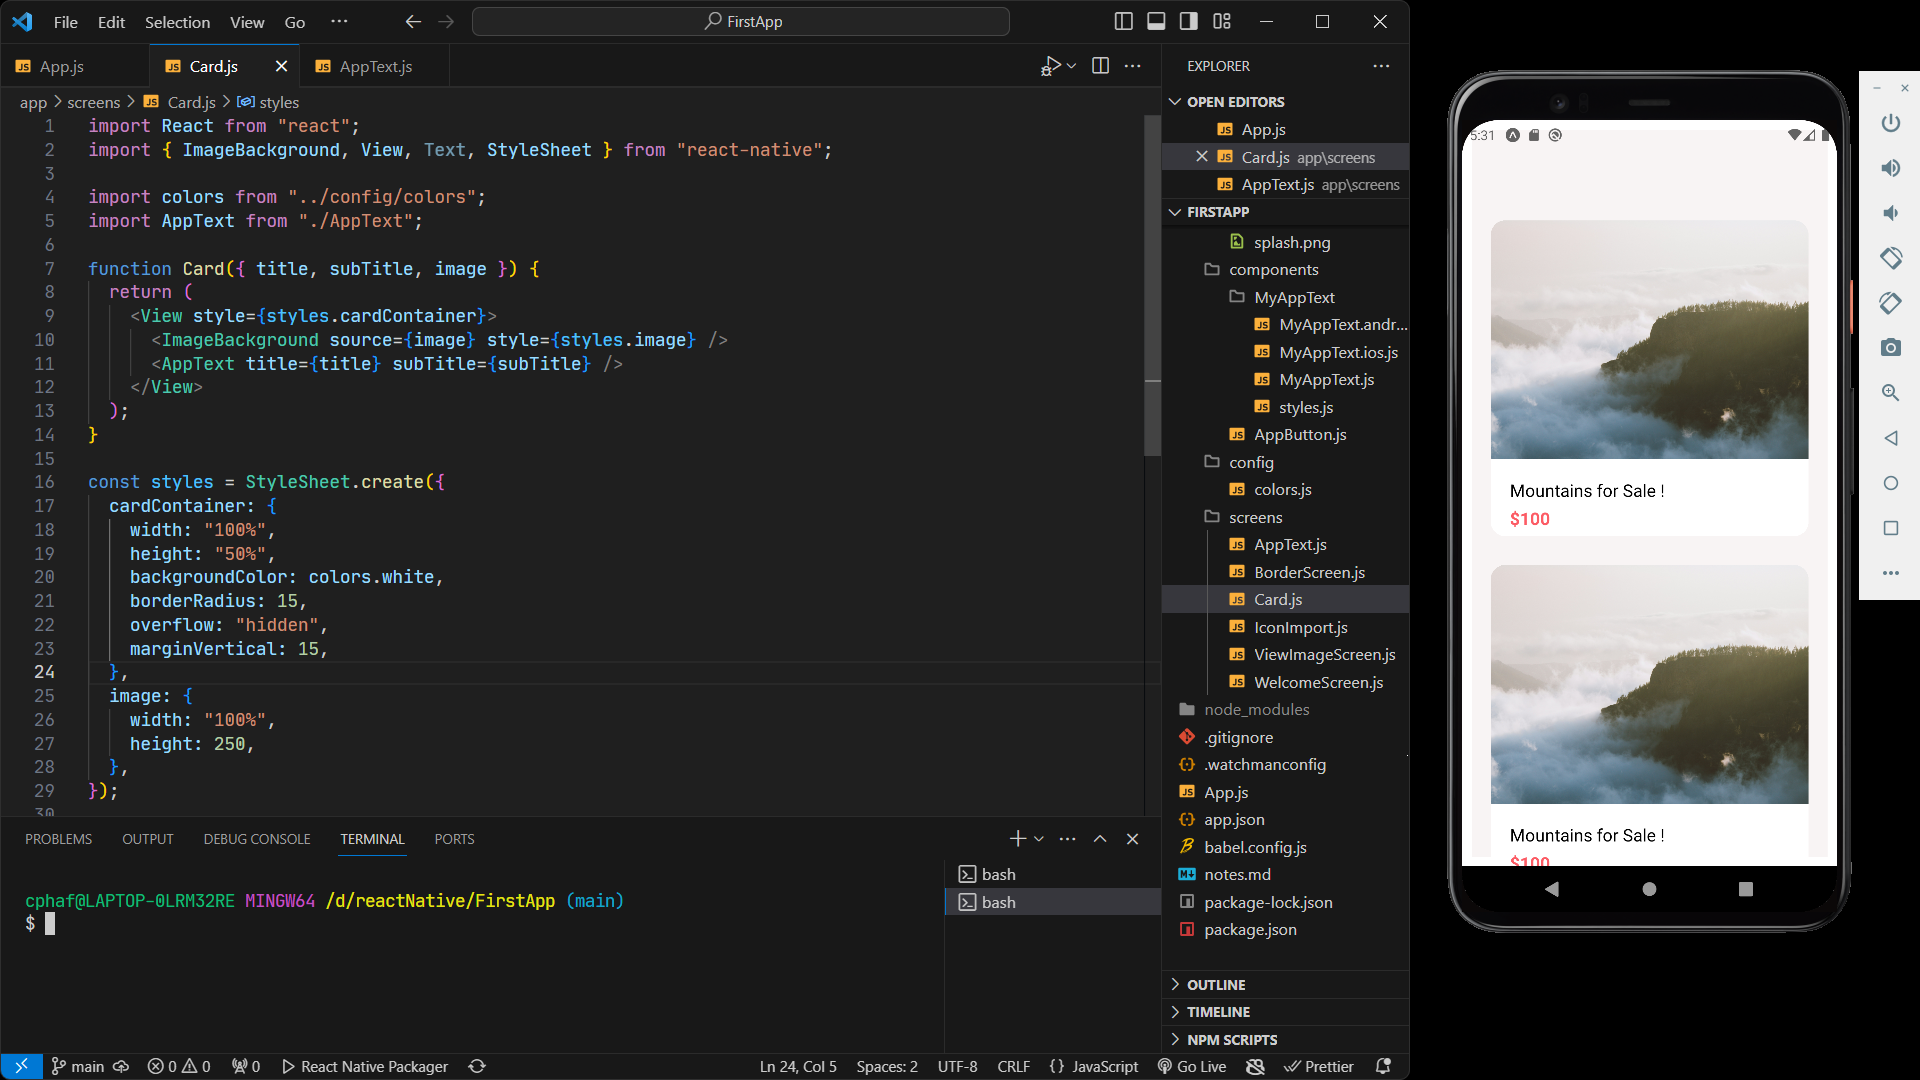
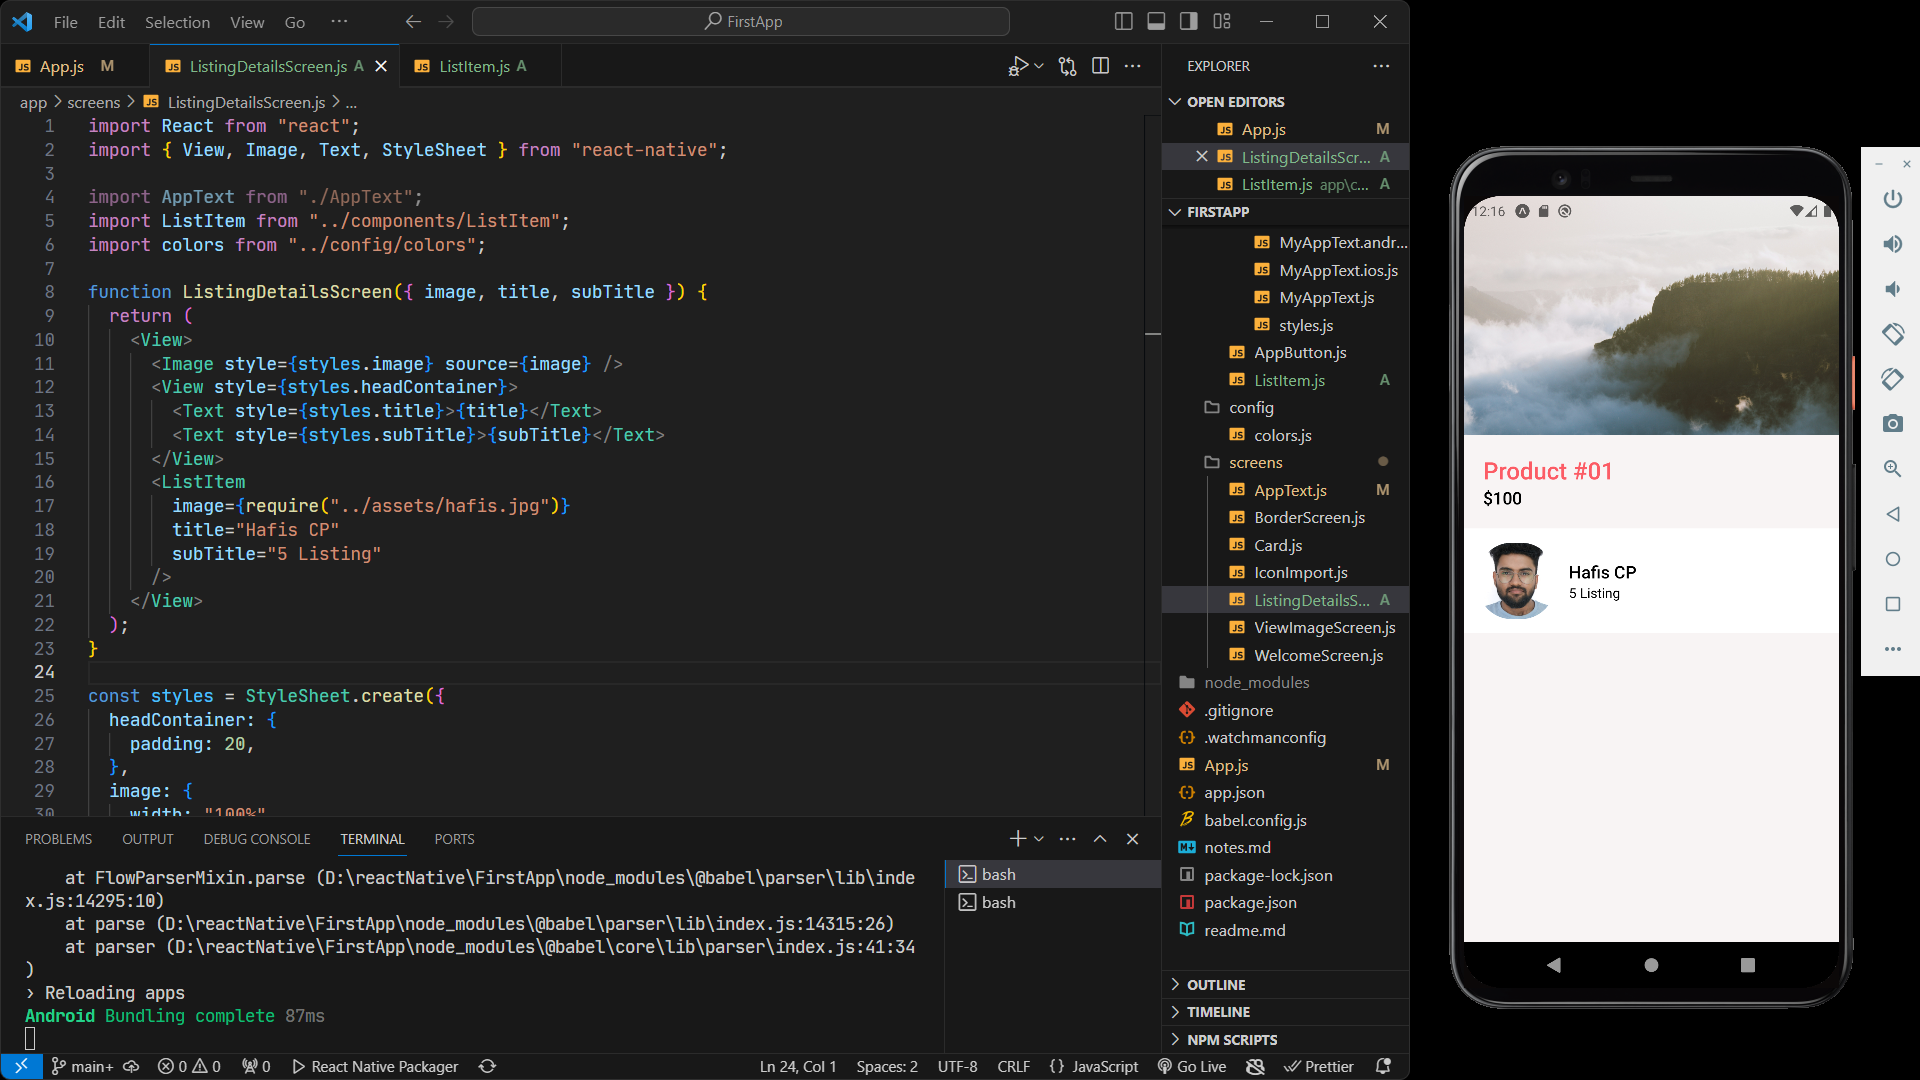
50 - ListingDetailsScreen - From Lap

diff --git a/App.js b/App.js
@@ -8,22 +8,30 @@ import AppText from "./app/screens/AppText";
 import IconImport from "./app/screens/IconImport";
 import AppButton from "./app/components/AppButton";
 import Card from "./app/screens/Card";
+import ListingDetailsScreen from "./app/screens/ListingDetailsScreen";
 
 export default function App() {
   return (
-    <View style={styles.views}>
-      <Card
-        title="Mountains for Sale !"
-        subTitle="$100"
+    <View style={styles.ListingContainer}>
+      <ListingDetailsScreen
         image={require("./app/assets/bg.jpg")}
-      />
-      <Card
-        title="Mountains for Sale !"
+        title="Product #01"
         subTitle="$100"
-        image={require("./app/assets/bg.jpg")}
-        
       />
     </View>
+    // <View style={styles.views}>
+    //   <Card
+    //     title="Mountains for Sale !"
+    //     subTitle="$100"
+    //     image={require("./app/assets/bg.jpg")}
+    //   />
+    //   <Card
+    //     title="Mountains for Sale !"
+    //     subTitle="$100"
+    //     image={require("./app/assets/bg.jpg")}
+
+    //   />
+    // </View>
     // <ViewImageScreen />
     // <BorderScreen />
     // <IconImport />
@@ -36,6 +44,10 @@ const styles = StyleSheet.create({
   cardContainer: {
     width: 100,
     height: 100,
+  },
+  ListingContainer: {
+    flex: 1,
+    backgroundColor: "#f8f4f4",
   },
   views: {
     padding: 20,

diff --git a/app/screens/ListingDetailsScreen.js b/app/screens/ListingDetailsScreen.js
@@ -1,0 +1,44 @@
+import React from "react";
+import { View, Image, Text, StyleSheet } from "react-native";
+
+import AppText from "./AppText";
+import ListItem from "../components/ListItem";
+import colors from "../config/colors";
+
+function ListingDetailsScreen({ image, title, subTitle }) {
+  return (
+    <View>
+      <Image style={styles.image} source={image} />
+      <View style={styles.headContainer}>
+        <Text style={styles.title}>{title}</Text>
+        <Text style={styles.subTitle}>{subTitle}</Text>
+      </View>
+      <ListItem
+        image={require("../assets/hafis.jpg")}
+        title="Hafis CP"
+        subTitle="5 Listing"
+      />
+    </View>
+  );
+}
+
+const styles = StyleSheet.create({
+  headContainer: {
+    padding: 20,
+  },
+  image: {
+    width: "100%",
+    height: 250,
+  },
+  title: {
+    fontSize: 25,
+    fontWeight: "600",
+    color: colors.secondary,
+  },
+  subTitle: {
+    fontWeight: "600",
+    fontSize: 18,
+  },
+});
+
+export default ListingDetailsScreen;

diff --git a/app/components/ListItem.js b/app/components/ListItem.js
@@ -1,0 +1,41 @@
+import React from "react";
+
+import { View, Text, Image, StyleSheet } from "react-native";
+import colors from "../config/colors";
+
+function ListItem({ title, subTitle, image }) {
+  return (
+    <View style={styles.ListItemContainer}>
+      <Image source={image} style={styles.image} />
+      <View style={styles.personal}>
+        <Text style={styles.title}>{title}</Text>
+        <Text style={styles.subTitle}>{subTitle}</Text>
+      </View>
+    </View>
+  );
+}
+
+const styles = StyleSheet.create({
+  image: {
+    width: 80,
+    height: 80,
+    shadowColor: colors.black,
+    borderRadius: 35,
+  },
+  ListItemContainer: {
+    padding: 15,
+    flexDirection: "row",
+    backgroundColor: colors.white,
+  },
+  personal: {
+    justifyContent: "center",
+    alignItems: "flex-start",
+    paddingHorizontal: 15,
+  },
+  title: {
+    fontWeight: "600",
+    fontSize: 18,
+  },
+});
+
+export default ListItem;

diff --git a/app/screens/AppText.js b/app/screens/AppText.js
@@ -4,30 +4,24 @@ import { StyleSheet, View, Text } from "react-native";
 import MyAppText from "../components/MyAppText/MyAppText";
 import colors from "../config/colors";
 
-function AppText({ title, subTitle }) {
+function AppText({ children }) {
   return (
     <View style={styles.titleContainer}>
-      <Text style={styles.title}>{title}</Text>
-      <Text style={styles.subtitle}>{subTitle}</Text>
+      <Text style={styles.title}>{children}</Text>
     </View>
   );
 }
 
 const styles = StyleSheet.create({
   titleContainer: {
-    paddingTop: 10,
-    marginLeft: 20,
+    // paddingTop: 10,
+    // marginLeft: 20,
   },
   title: {
-    color: colors.black,
-    fontSize: 18,
-    paddingTop: 10,
-    paddingVertical: 5,
-  },
-  subtitle: {
-    color: colors.secondary,
-    fontWeight: "700",
-    fontSize: 18,
+    fontSize: 20,
+    // paddingTop: 10,
+    // paddingVertical: 5,
+    fontWeight: "600",
   },
 });
 
